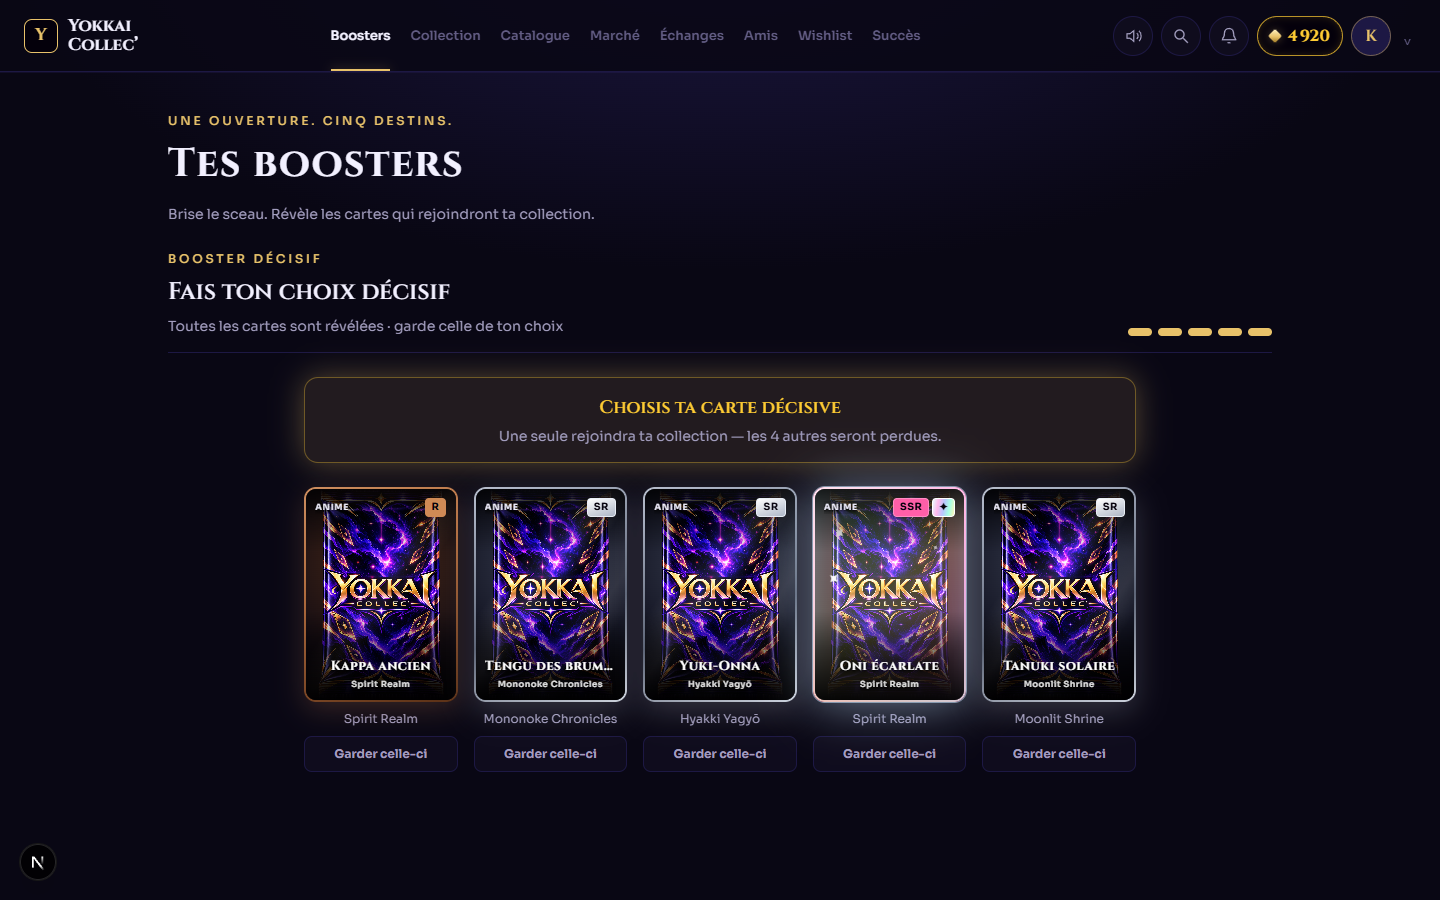
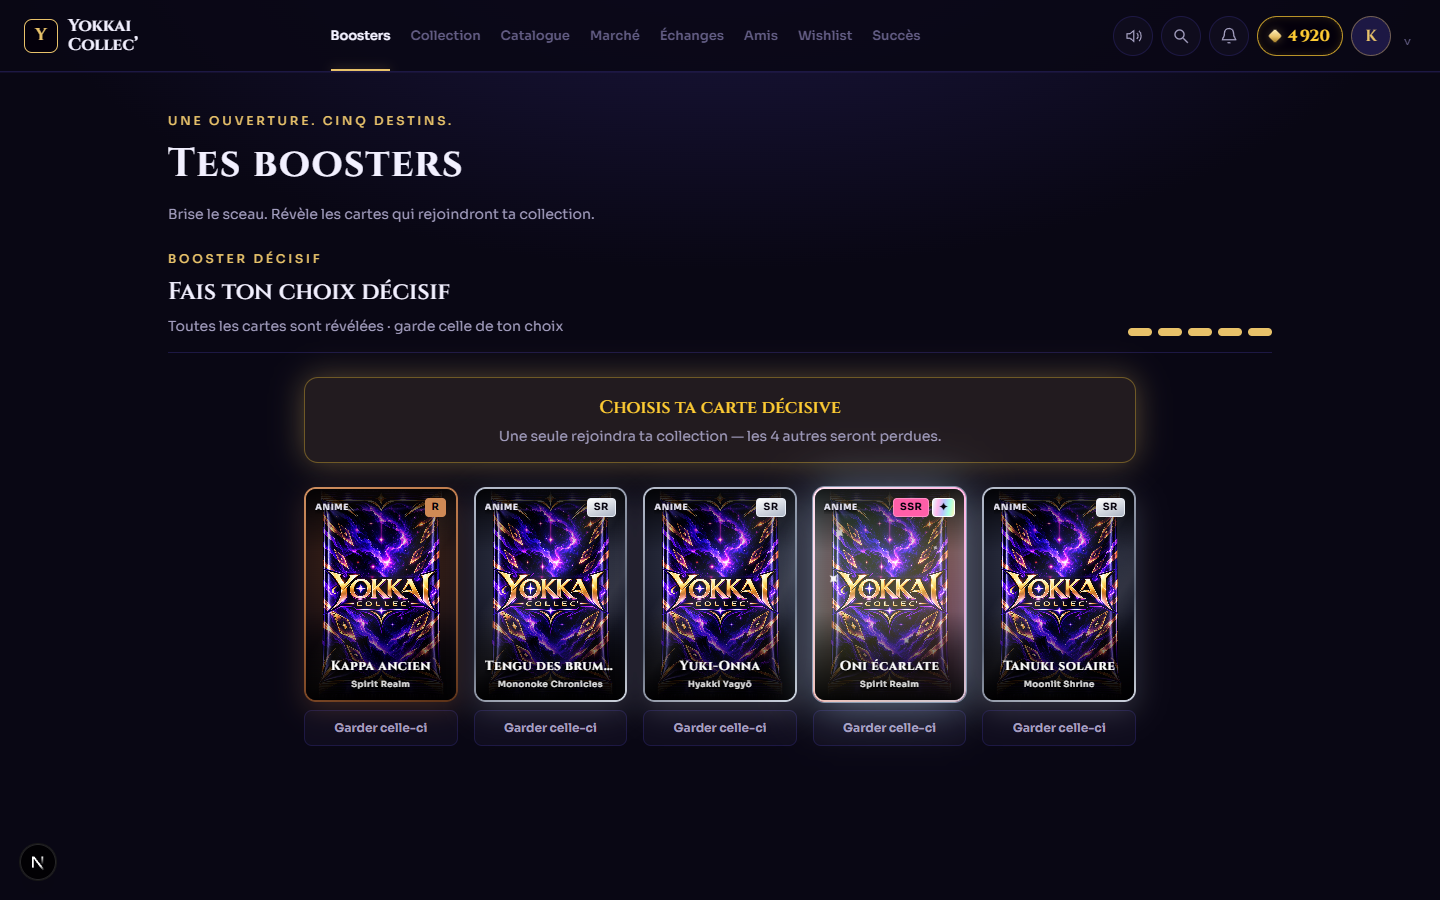
fix: drop redundant franchise caption under revealed cards

diff --git a/components/boosters.tsx b/components/boosters.tsx
@@ -238,10 +238,8 @@ export function BoosterReveal({ cards, revealed, onReveal, onReturn, onNext, nex
       const isDiscarded = discarded.has(card.instanceId);
       const lost = isDiscarded || (!!decision?.keptId && decision.keptId !== card.instanceId);
       const kept = decision?.keptId === card.instanceId;
-      const franchise = card.anime?.trim() || card.category;
       return <li key={card.instanceId} style={{ "--slot-i": i } as CSSProperties} className={`yk-reveal-slot ${i < revealed ? "yk-filled" : ""} ${i === revealed && !done ? "yk-slot-next" : ""} ${pick === card.instanceId && choosing ? "yk-picked" : ""} ${lost ? "yk-lost" : ""} ${kept ? "yk-kept" : ""}`}>
         {i < revealed ? <><button type="button" disabled={!choosing || confirming || isDiscarded} aria-pressed={choosing ? pick === card.instanceId : undefined} aria-label={choosing ? `Choisir ${card.name}` : `${card.name}, ${card.rarity}`} onClick={() => setPick(card.instanceId)} className="yk-reveal-card block w-full rounded-card text-left disabled:cursor-default" style={choosing && pick && pick !== card.instanceId ? {opacity:.55} : undefined}><YokaiCard {...card} />{lost && <span className="yk-lost-stamp">{isDiscarded ? "DÉTRUITE" : "PERDUE"}</span>}</button>
-          <p className="yk-reveal-caption" title={franchise}>{franchise}</p>
           <div className="yk-reveal-actions">{kept ? <StatusPill>GARDÉE</StatusPill> : choosing ? <Button variant={pick === card.instanceId ? "primary" : "secondary"} disabled={decision.busy || confirming} onClick={() => { setPick(card.instanceId); setConfirm(true); }} className="yk-slot-button">Garder celle-ci</Button> : !isDiscarded && onDiscard ? <Button variant="danger" disabled={!!discarding} onClick={() => setDiscardCandidate(card)} className="yk-slot-button">{discarding === card.instanceId ? "Destruction…" : "Détruire"}</Button> : lost ? null : card.isNew ? <StatusPill>NEW</StatusPill> : card.copies && card.copies > 1 ? <span className="text-[10px] text-ink-3">Doublon ×{card.copies}</span> : null}</div></> : <span className="yk-slot-placeholder"><span className="yk-slot-number">{String(i + 1).padStart(2,"0")}</span><span className="yk-slot-hint">{i === revealed ? "Suivante" : "En attente"}</span></span>}
       </li>;
     })}</ol>

diff --git a/styles/boosters.css b/styles/boosters.css
@@ -155,7 +155,6 @@
 .yk-slot-next .yk-slot-hint { color: var(--color-accent-neon); }
 .yk-filled { animation: yk-drop .55s var(--ease-yokkai); }
 .yk-reveal-card { position: relative; transition: opacity var(--duration-fast) var(--ease-standard); }
-.yk-reveal-caption { margin-top: calc(var(--spacing) * 2); overflow: hidden; color: var(--color-ink-2); font-size: 12px; text-align: center; text-overflow: ellipsis; white-space: nowrap; }
 .yk-reveal-actions { display: flex; min-height: 44px; margin-top: calc(var(--spacing) * 2); flex-wrap: wrap; align-items: flex-start; justify-content: center; gap: calc(var(--spacing) * 1); }
 .yk-slot-button { width: 100%; min-height: 36px; padding: calc(var(--spacing) * 2) calc(var(--spacing) * 2); font-size: 12px; }
 .yk-reveal-grid-choosing .yk-slot-button.yk-button-primary { border-color: var(--color-accent-gold); box-shadow: var(--shadow-gold); }
@@ -163,7 +162,6 @@
 .yk-picked .yk-reveal-card { outline: 2px solid var(--color-accent-gold); outline-offset: 4px; box-shadow: var(--shadow-gold); }
 .yk-kept .yk-reveal-card { outline: 2px solid var(--color-accent-gold); outline-offset: 4px; box-shadow: var(--shadow-gold); }
 .yk-lost .yk-card { filter: grayscale(1) brightness(.6); opacity: .3; transform: scale(.92); }
-.yk-lost .yk-reveal-caption { color: var(--color-ink-3); }
 .yk-lost-stamp { position: absolute; left: 10%; right: 10%; top: 45%; padding: 8px; border: 2px solid var(--color-danger); color: var(--color-danger); transform: rotate(-15deg); font-size: clamp(9px,1.5vw,18px); font-weight: 700; text-align: center; letter-spacing: .12em; }
 .yk-reveal-footer { display: flex; flex-direction: column; align-items: center; gap: calc(var(--spacing) * 2); margin-top: var(--layout-gutter); padding-top: var(--layout-gutter); border-top: 1px solid var(--color-veil); text-align: center; }
 .yk-reveal-summary { max-width: var(--booster-reveal-max); margin: calc(var(--layout-gutter) * 1.5) auto 0; padding: var(--layout-gutter); border: 1px solid var(--color-veil); border-radius: var(--radius-panel); background: linear-gradient(180deg,color-mix(in srgb,var(--color-veil) 24%,var(--color-surface)),var(--color-surface)); box-shadow: var(--shadow-card); text-align: center; }
